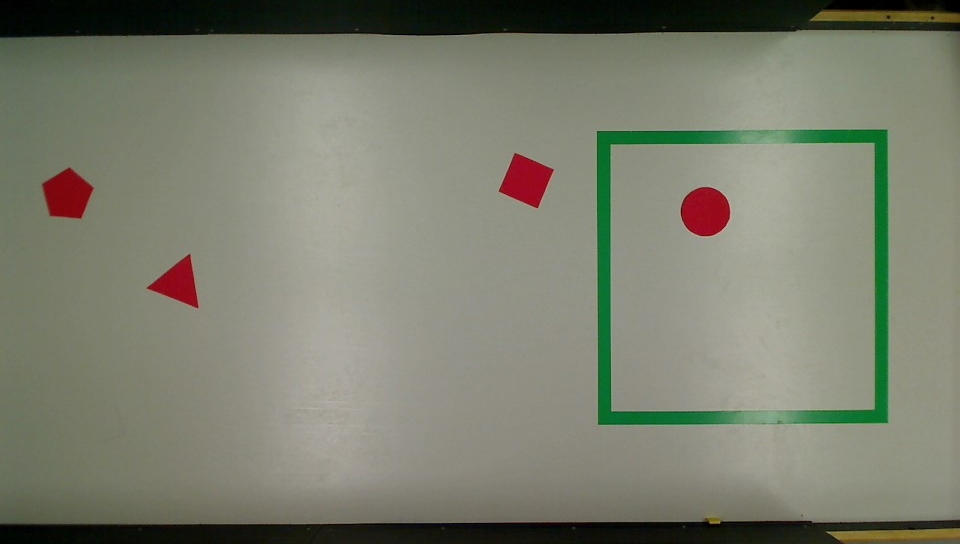
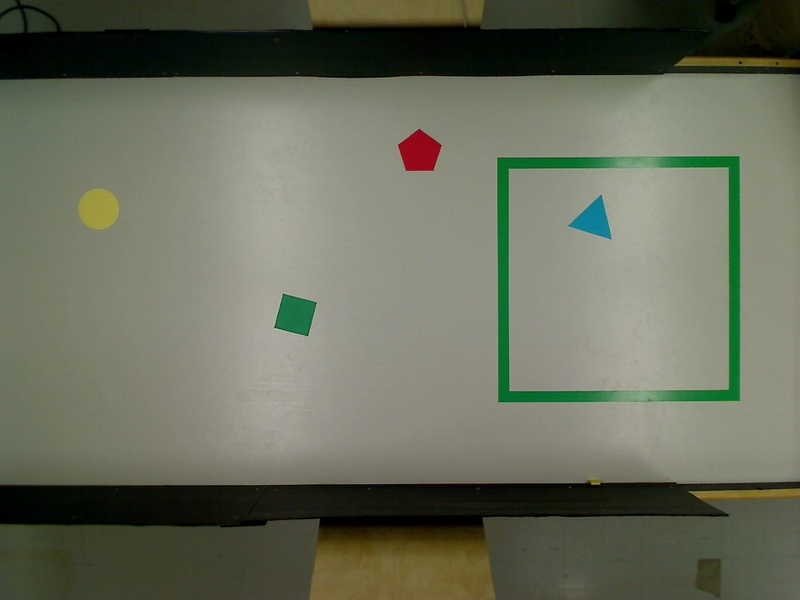
finds all islands (every color) and resize to fit camera

diff --git a/webapp/static/js/canvasController.js b/webapp/static/js/canvasController.js
@@ -55,7 +55,7 @@ website.controller('canvasController', ['$scope', 'RobotService', 'MapService', 
                 var island = new createjs.Shape();
                 var triangle_x = triangle.x;
                 var triangle_y = canvas.height - triangle.y;
-                var triangle_side_length = 30;
+                var triangle_side_length = 20;
                 var triangle_color = triangle.color;
                 var triangle_angle = -90;
                 island.graphics.beginFill(triangle_color).drawPolyStar(triangle_x, triangle_y, triangle_side_length, 3, 0, triangle_angle);
@@ -65,7 +65,7 @@ website.controller('canvasController', ['$scope', 'RobotService', 'MapService', 
                 var island = new createjs.Shape();
                 var pentagon_x = pentagon.x;
                 var pentagon_y = canvas.height - pentagon.y;
-                var pentagon_side_length = 30;
+                var pentagon_side_length = 20;
                 var pentagon_color = pentagon.color;
                 var pentagon_angle = -90;
                 island.graphics.beginFill(pentagon_color).drawPolyStar(pentagon_x, pentagon_y, pentagon_side_length, 5, 0, pentagon_angle);
@@ -75,7 +75,7 @@ website.controller('canvasController', ['$scope', 'RobotService', 'MapService', 
                 var island = new createjs.Shape();
                 var square_x = square.x;
                 var square_y = canvas.height - square.y;
-                var square_side_length = 30;
+                var square_side_length = 20;
                 var square_color = square.color;
                 var square_angle = -90;
                 island.graphics.beginFill(square_color).drawPolyStar(square_x, square_y, square_side_length, 4, 0, square_angle);

diff --git a/webapp/static/js/app.js b/webapp/static/js/app.js
@@ -24,8 +24,8 @@ website.controller('homeController', ['$scope', function($scope) {
   window.ROBOT_HOST = "localhost:3000";
   window.POSITION_REFRESH_TIME_IN_MS = 100;
   window.CANVAS_REFRESH_TIME_IN_MS = 100;
-  window.CANVAS_HEIGHT = 544;
-  window.CANVAS_WIDTH = 900;
+  window.CANVAS_HEIGHT = 600;
+  window.CANVAS_WIDTH = 800;
 
   var init = function() {
     $scope.activeTab = TabEnum.CONTROLS;

diff --git a/base_station/vision_service.py b/base_station/vision_service.py
@@ -7,29 +7,41 @@ class VisionService:
 
     def build_map(self):
         image = Image(self.__camera.get_frame())
-        circles = self.__shape_detector.find_circle_color(image, 'red', default_camille_circle_params)
-        triangles = self.__shape_detector.find_polygon_color(image, 'triangle', 'red', default_camille_polygon_params)
-        pentagons = self.__shape_detector.find_polygon_color(image, 'pentagon', 'red', default_camille_polygon_params)
-        squares = self.__shape_detector.find_polygon_color(image, 'square', 'red', default_camille_polygon_params)
-        for circle in circles:
-            circle['shape'] = 'circle'
-            circle['color'] = 'red'
-        for triangle in triangles:
-            triangle['shape'] = 'triangle'
-            triangle['color'] = 'red'
-        for square in squares:
-            square['shape'] = 'square'
-            square['color'] = 'red'
-        for pentagon in pentagons:
-            pentagon['shape'] = 'pentagon'
-            pentagon['color'] = 'red'
+        circles, pentagons, squares, triangles = [], [], [], []
+        circles.extend(self.__find_polygon_color__(image, 'circle', 'green'))
+        circles.extend(self.__find_polygon_color__(image, 'circle', 'blue'))
+        circles.extend(self.__find_polygon_color__(image, 'circle', 'yellow'))
+        circles.extend(self.__find_polygon_color__(image, 'circle', 'red'))
+        pentagons.extend(self.__find_polygon_color__(image, 'pentagon', 'green'))
+        pentagons.extend(self.__find_polygon_color__(image, 'pentagon', 'blue'))
+        pentagons.extend(self.__find_polygon_color__(image, 'pentagon', 'yellow'))
+        pentagons.extend(self.__find_polygon_color__(image, 'pentagon', 'red'))
+        triangles.extend(self.__find_polygon_color__(image, 'triangle', 'green'))
+        triangles.extend(self.__find_polygon_color__(image, 'triangle', 'blue'))
+        triangles.extend(self.__find_polygon_color__(image, 'triangle', 'yellow'))
+        triangles.extend(self.__find_polygon_color__(image, 'triangle', 'red'))
+        squares.extend(self.__find_polygon_color__(image, 'square', 'green'))
+        squares.extend(self.__find_polygon_color__(image, 'square', 'blue'))
+        squares.extend(self.__find_polygon_color__(image, 'square', 'yellow'))
+        squares.extend(self.__find_polygon_color__(image, 'square', 'red'))
+
         worldmap = {
             'circles': circles,
             'triangles': triangles,
-            'pentagons' : pentagons,
-            'squares' : squares
+            'pentagons': pentagons,
+            'squares': squares
         }
         return worldmap
+
+    def __find_polygon_color__(self, image, shape, color):
+        if shape == 'circle':
+            shapes = self.__shape_detector.find_circle_color(image, color, default_camille_circle_params)
+        else:
+            shapes = self.__shape_detector.find_polygon_color(image, shape, color, default_camille_polygon_params)
+        for polygon in shapes:
+            polygon['shape'] = shape
+            polygon['color'] = color
+        return shapes
 
 default_camille_circle_params = {
     'median_blur_kernel_size' : 5,

diff --git a/robot_app.py b/robot_app.py
@@ -57,7 +57,7 @@ if __name__ == '__main__':
         wheels = WheelsUsbController(serialport,WheelsUsbCommands())
 
     islands = IslandsService(base_station_host, base_station_port)
-    cell = Cell(900,544,450,272)
+    cell = Cell(800,600,400,300)
     polygons = islands.get_polygons()
     mesh = Mesh(cell.partitionCells(polygons, 10))
     pathfinder = PathFinder(mesh)
